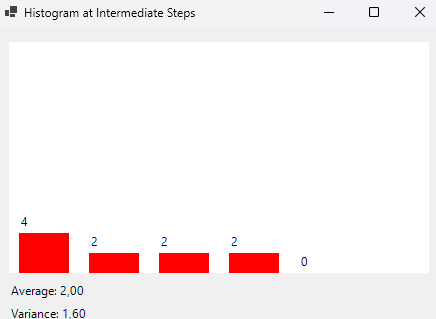
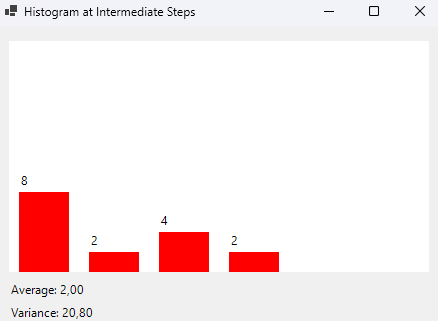
mod

diff --git a/homework2.html b/homework2.html
@@ -236,7 +236,8 @@
 
                             <p>As already said, each value of the <strong>absolute frequencies</strong>
                                 line provides the number of successful penetration of attackers on each server, whereas
-                                the values of the line shown as <strong>relative frequencies</strong> provide a proportion of how many
+                                the values of the line shown as <strong>relative frequencies</strong> provide a
+                                proportion of how many
                                 times attackers
                                 successfully moved up at each server, relatively to the total number of attackers.</p>
 
@@ -248,73 +249,27 @@
 
                     <img src="images/HW2/all_app.png" alt="New Program">
 
-                </div>
-            </div>
-
-            <div class="wrapper">
-                <div class="inner">
-                    <h2 class="major">Attack Simulation Exercise</h2>
-                    <p>The code represents an application that simulates the number of successful penetration attempts
-                        of
-                        hackers on servers. The application takes inputs from the user, simulates the penetration
-                        attempts
-                        using random probability, and visualizes the results both as a line graph and a histogram.</p>
-
-                    <p>Below is a step-by-step breakdown of the code with key snippets:</p>
-
-                    <p><strong>Constructor:</strong> The constructor initializes the form and adds the necessary
-                        controls,
-                        including labels for the inputs, text boxes, a button, and a PictureBox for visualization.</p>
-
-                    <img src="images/main_form.png" alt="Main form" />
-
-                    <div class="image-text-container">
-                        <img src="images/simulate_pen.png" alt="Simulate penetration">
-
-                        <div class="image-description">
-                            <h3>Attack Simulation Diagram</h3>
-                            <p>This diagram represents an application that simulates the number of successful
-                                penetration attempts of hackers on servers. Below is a step-by-step breakdown of the
-                                code with key snippets.</p>
-                        </div>
-                    </div>
-
-                    <div class="image-text-container">
-                        <div class="image-description">
-                            <h3>Graph Explanation</h3>
-                            <p>After calculating the results, the method draws the graph on the PictureBox. It plots the
-                                cumulative penetration successes for each attacker over multiple servers using different
-                                colors for each attacker. Grid lines and axis labels are also added to the graph.</p>
-                        </div>
-
-                        <img src="images/draw_graph.png" alt="Graph Generation">
-                    </div>
 
                     <div class="image-pair-container">
                         <!-- First Image and Description -->
                         <div class="image-item">
-                            <img src="images/graph.png" alt="Graph" />
-                            <p>This graph represents a simulation of penetration attempts by multiple hackers on a
-                                network of servers. The x-axis shows the number of servers (from 1 to 10), while the
-                                y-axis represents the cumulative number of successful penetrations by each hacker. Each
-                                colored line corresponds to a different hacker, and the height of the line indicates the
-                                total number of successful penetrations by that hacker up to each server. </p>
+                            <img src="images/HW2/interm_histo.png" alt="Intermediate Histogram" />
+                            <p>This new histogram represents the distribution of successfull penetration by attackers
+                                when the intermediate steps (given as input by the user) are reached.</p>
                         </div>
 
                         <!-- Second Image and Description -->
                         <div class="image-item">
-                            <img src="images/histogram.png" alt="Histogram" />
-                            <p>After the line graph, a histogram form is opened in another window, that displays the
-                                distribution of the number of successful penetrations by attackers.</p>
-                            <p>It also shows the Arithmetic Average of the servers penetrated and the Variance.</p>
+                            <img src="images/HW2/final_histo.png" alt="Final Histogram" />
+                            <p>This histogram, as the first homework, displays the distribution of the number of
+                                successful penetrations by attackers.</p>
                         </div>
                     </div>
-
-                    <div class="link-container">
-                        <a href="assets/project.zip" class="underline-link">Link to the zip of the project</a>
-                    </div>
+                    <p>Both histograms also show the Arithmetic Average of the servers penetrated and the Variance at N steps and final step, respectively.</p>
                 </div>
             </div>
+
+
     </div>
     </section>
 
